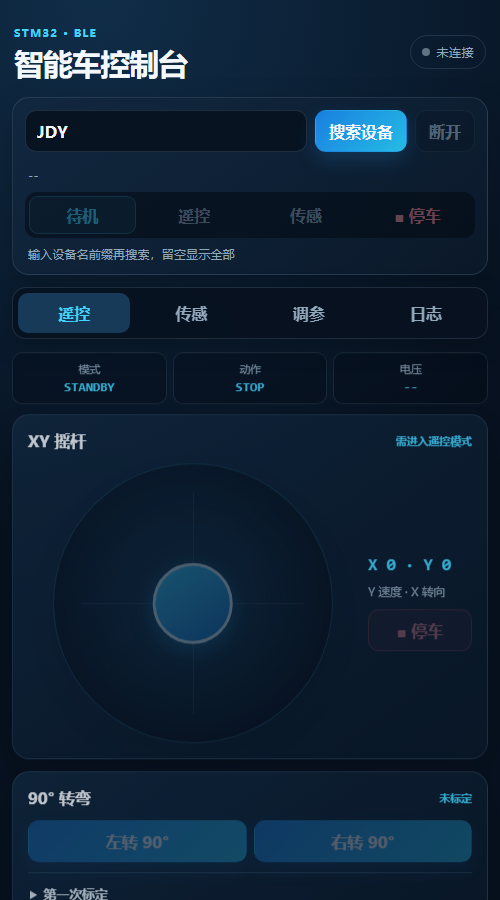
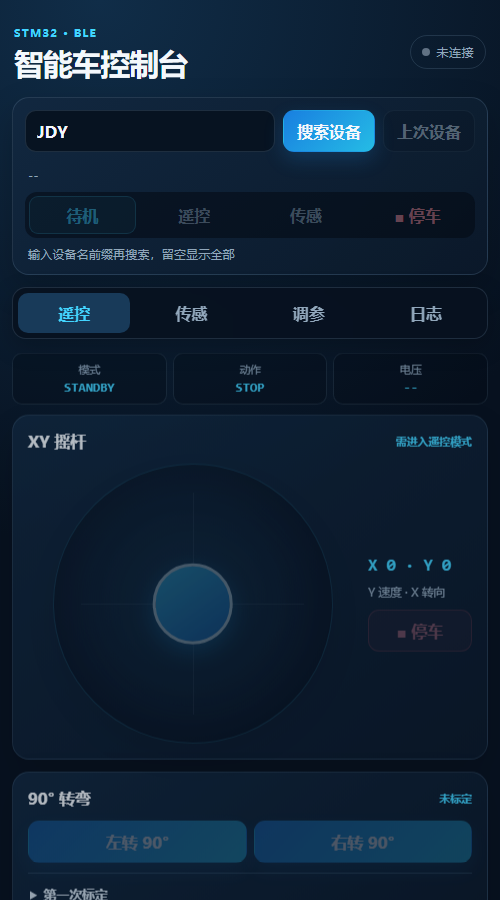
支持直接重连上次蓝牙设备

diff --git a/app.js b/app.js
@@ -45,6 +45,7 @@ const motorChannels = { LF: 0, LB: 0, RF: 0, RB: 0 };
 const logRecords = [];
 let paramsLoaded = false;
 let bluetoothDevice = null;
+let lastGrantedDevice = null;
 let uartCharacteristic = null;
 let receiveBuffer = "";
 let writeQueue = Promise.resolve();
@@ -236,7 +237,8 @@ function setConnected(connected) {
   ui.connectionState.classList.toggle("connected", connected);
   ui.connectionText.textContent = connected ? "已连接" : "未连接";
   ui.connectButton.disabled = connected;
-  ui.disconnectButton.disabled = !connected;
+  ui.disconnectButton.disabled = !connected && !lastGrantedDevice;
+  ui.disconnectButton.textContent = connected ? "断开" : "上次设备";
   ui.deviceNameFilter.disabled = connected;
   if (!connected) {
     state.mode = "standby";
@@ -249,6 +251,28 @@ function setConnected(connected) {
     stopSampling();
   }
   updateAvailability();
+}
+
+async function connectDevice(device) {
+  bluetoothDevice = device;
+  bluetoothDevice.addEventListener("gattserverdisconnected", handleDisconnected);
+  setMessage("正在连接…");
+  const server = await bluetoothDevice.gatt.connect();
+  const service = await server.getPrimaryService(SERVICE_UUID);
+  uartCharacteristic = await service.getCharacteristic(CHARACTERISTIC_UUID);
+  if (uartCharacteristic.properties.notify || uartCharacteristic.properties.indicate) {
+    await uartCharacteristic.startNotifications();
+    uartCharacteristic.addEventListener("characteristicvaluechanged", handleNotification);
+  }
+
+  lastGrantedDevice = device;
+  localStorage.setItem("smartCarDeviceId", device.id);
+  intentionalDisconnect = false;
+  ui.deviceName.textContent = bluetoothDevice.name || "未命名设备";
+  setConnected(true);
+  addLog(`CONNECTED ${bluetoothDevice.name || "UNKNOWN"}`);
+  await sendCommand("CHECK");
+  setMessage("连接成功");
 }
 
 async function connectBluetooth() {
@@ -264,23 +288,8 @@ async function connectBluetooth() {
     else requestOptions.acceptAllDevices = true;
     localStorage.setItem("smartCarDevicePrefix", namePrefix);
     setMessage(namePrefix ? `只显示名称以 ${namePrefix} 开头的设备…` : "显示附近全部蓝牙设备…");
-    bluetoothDevice = await navigator.bluetooth.requestDevice(requestOptions);
-    bluetoothDevice.addEventListener("gattserverdisconnected", handleDisconnected);
-    setMessage("正在连接…");
-    const server = await bluetoothDevice.gatt.connect();
-    const service = await server.getPrimaryService(SERVICE_UUID);
-    uartCharacteristic = await service.getCharacteristic(CHARACTERISTIC_UUID);
-    if (uartCharacteristic.properties.notify || uartCharacteristic.properties.indicate) {
-      await uartCharacteristic.startNotifications();
-      uartCharacteristic.addEventListener("characteristicvaluechanged", handleNotification);
-    }
-
-    intentionalDisconnect = false;
-    ui.deviceName.textContent = bluetoothDevice.name || "未命名设备";
-    setConnected(true);
-    addLog(`CONNECTED ${bluetoothDevice.name || "UNKNOWN"}`);
-    await sendCommand("CHECK");
-    setMessage("连接成功");
+    const selectedDevice = await navigator.bluetooth.requestDevice(requestOptions);
+    await connectDevice(selectedDevice);
   } catch (error) {
     if (error.name === "NotFoundError") {
       setMessage("未选择设备；可修改前缀或留空重试");
@@ -290,6 +299,35 @@ async function connectBluetooth() {
     setConnected(false);
     setMessage(`连接失败：${error.message}`, true);
     addLog(error.message, "error");
+  }
+}
+
+async function connectLastDevice() {
+  if (!lastGrantedDevice) return;
+  try {
+    setMessage(`连接上次设备：${lastGrantedDevice.name || "未命名设备"}…`);
+    await connectDevice(lastGrantedDevice);
+  } catch (error) {
+    uartCharacteristic = null;
+    setConnected(false);
+    setMessage(`上次设备连接失败：${error.message}`, true);
+    addLog(error.message, "error");
+  }
+}
+
+async function loadGrantedDevices() {
+  if (!navigator.bluetooth?.getDevices) return;
+  try {
+    const devices = await navigator.bluetooth.getDevices();
+    const savedId = localStorage.getItem("smartCarDeviceId");
+    lastGrantedDevice = devices.find((device) => device.id === savedId) ||
+                        (devices.length === 1 ? devices[0] : null);
+    if (!lastGrantedDevice) return;
+    ui.deviceName.textContent = `上次：${lastGrantedDevice.name || "未命名设备"}`;
+    setConnected(false);
+    setMessage("可直接连接上次设备，或搜索新设备");
+  } catch (_) {
+    return;
   }
 }
 
@@ -306,7 +344,7 @@ function handleDisconnected() {
   uartCharacteristic = null;
   receiveBuffer = "";
   setConnected(false);
-  ui.deviceName.textContent = "--";
+  ui.deviceName.textContent = lastGrantedDevice ? `上次：${lastGrantedDevice.name || "未命名设备"}` : "--";
   setMessage(planned ? "已停车并断开" : "意外断线，无法确认停车", !planned);
   addLog(planned ? "DISCONNECTED" : "UNEXPECTED DISCONNECT", planned ? "rx" : "error");
 }
@@ -607,7 +645,7 @@ function exportCsv() {
 }
 
 ui.connectButton.addEventListener("click", connectBluetooth);
-ui.disconnectButton.addEventListener("click", disconnectBluetooth);
+ui.disconnectButton.addEventListener("click", () => state.connected ? disconnectBluetooth() : connectLastDevice());
 document.querySelectorAll(".tab-button").forEach((button) => button.addEventListener("click", () => selectTab(button.dataset.tab)));
 
 document.querySelectorAll(".mode-choice[data-mode]").forEach((button) => {
@@ -702,6 +740,7 @@ ui.clearLogButton.addEventListener("click", () => {
 
 ui.deviceNameFilter.value = localStorage.getItem("smartCarDevicePrefix") ?? "JDY";
 setConnected(false);
+loadGrantedDevices();
 selectTab("remote");
 drawJoystick(0, 0);
 updateTurn90Status();

diff --git a/index.html b/index.html
@@ -6,7 +6,7 @@
   <meta name="theme-color" content="#07111f">
   <meta name="description" content="STM32 智能车手机蓝牙调试控制台">
   <title>智能车控制台</title>
-  <link rel="stylesheet" href="styles.css?v=20260829-device-search">
+  <link rel="stylesheet" href="styles.css?v=20260829-last-device">
 </head>
 <body>
   <main class="app-shell">
@@ -20,7 +20,7 @@
         <input class="device-filter" id="deviceNameFilter" type="search" value="JDY" maxlength="32" list="commonDeviceNames" placeholder="设备名前缀，留空显示全部" aria-label="蓝牙设备名称前缀">
         <datalist id="commonDeviceNames"><option value="JDY"><option value="BT05"><option value="HC-08"></datalist>
         <button class="button primary" id="connectButton" type="button">搜索设备</button>
-        <button class="button ghost" id="disconnectButton" type="button" disabled>断开</button>
+        <button class="button ghost" id="disconnectButton" type="button" disabled>上次设备</button>
         <strong class="device-name" id="deviceName">--</strong>
       </div>
       <div class="mode-switch" role="group" aria-label="运行模式">
@@ -196,6 +196,6 @@
       </section>
     </section>
   </main>
-  <script src="app.js?v=20260829-device-search"></script>
+  <script src="app.js?v=20260829-last-device"></script>
 </body>
 </html>

diff --git a/README.md b/README.md
@@ -7,7 +7,7 @@
 ## 功能
 
 - 遥控、传感器台架和待机模式互斥。
-- 连接前按设备名称前缀过滤蓝牙列表，默认 `JDY`，并记住上次输入；留空时显示全部设备。
+- 连接前按设备名称前缀过滤蓝牙列表，默认 `JDY`；首次授权后可用浏览器匿名设备 ID 直接连接上次设备。Web Bluetooth 不提供 MAC 地址过滤。
 - XY 摇杆：Y 控制前进/倒车速度，X 控制左右差速；纯前后自动启用直线外环。
 - 摇杆中心死区外从最低稳定 CPS 映射到方向上限，避免把低到无法维持的指令直接交给电机。
 - 前进与倒车分别标定左右轮目标 CPS。
